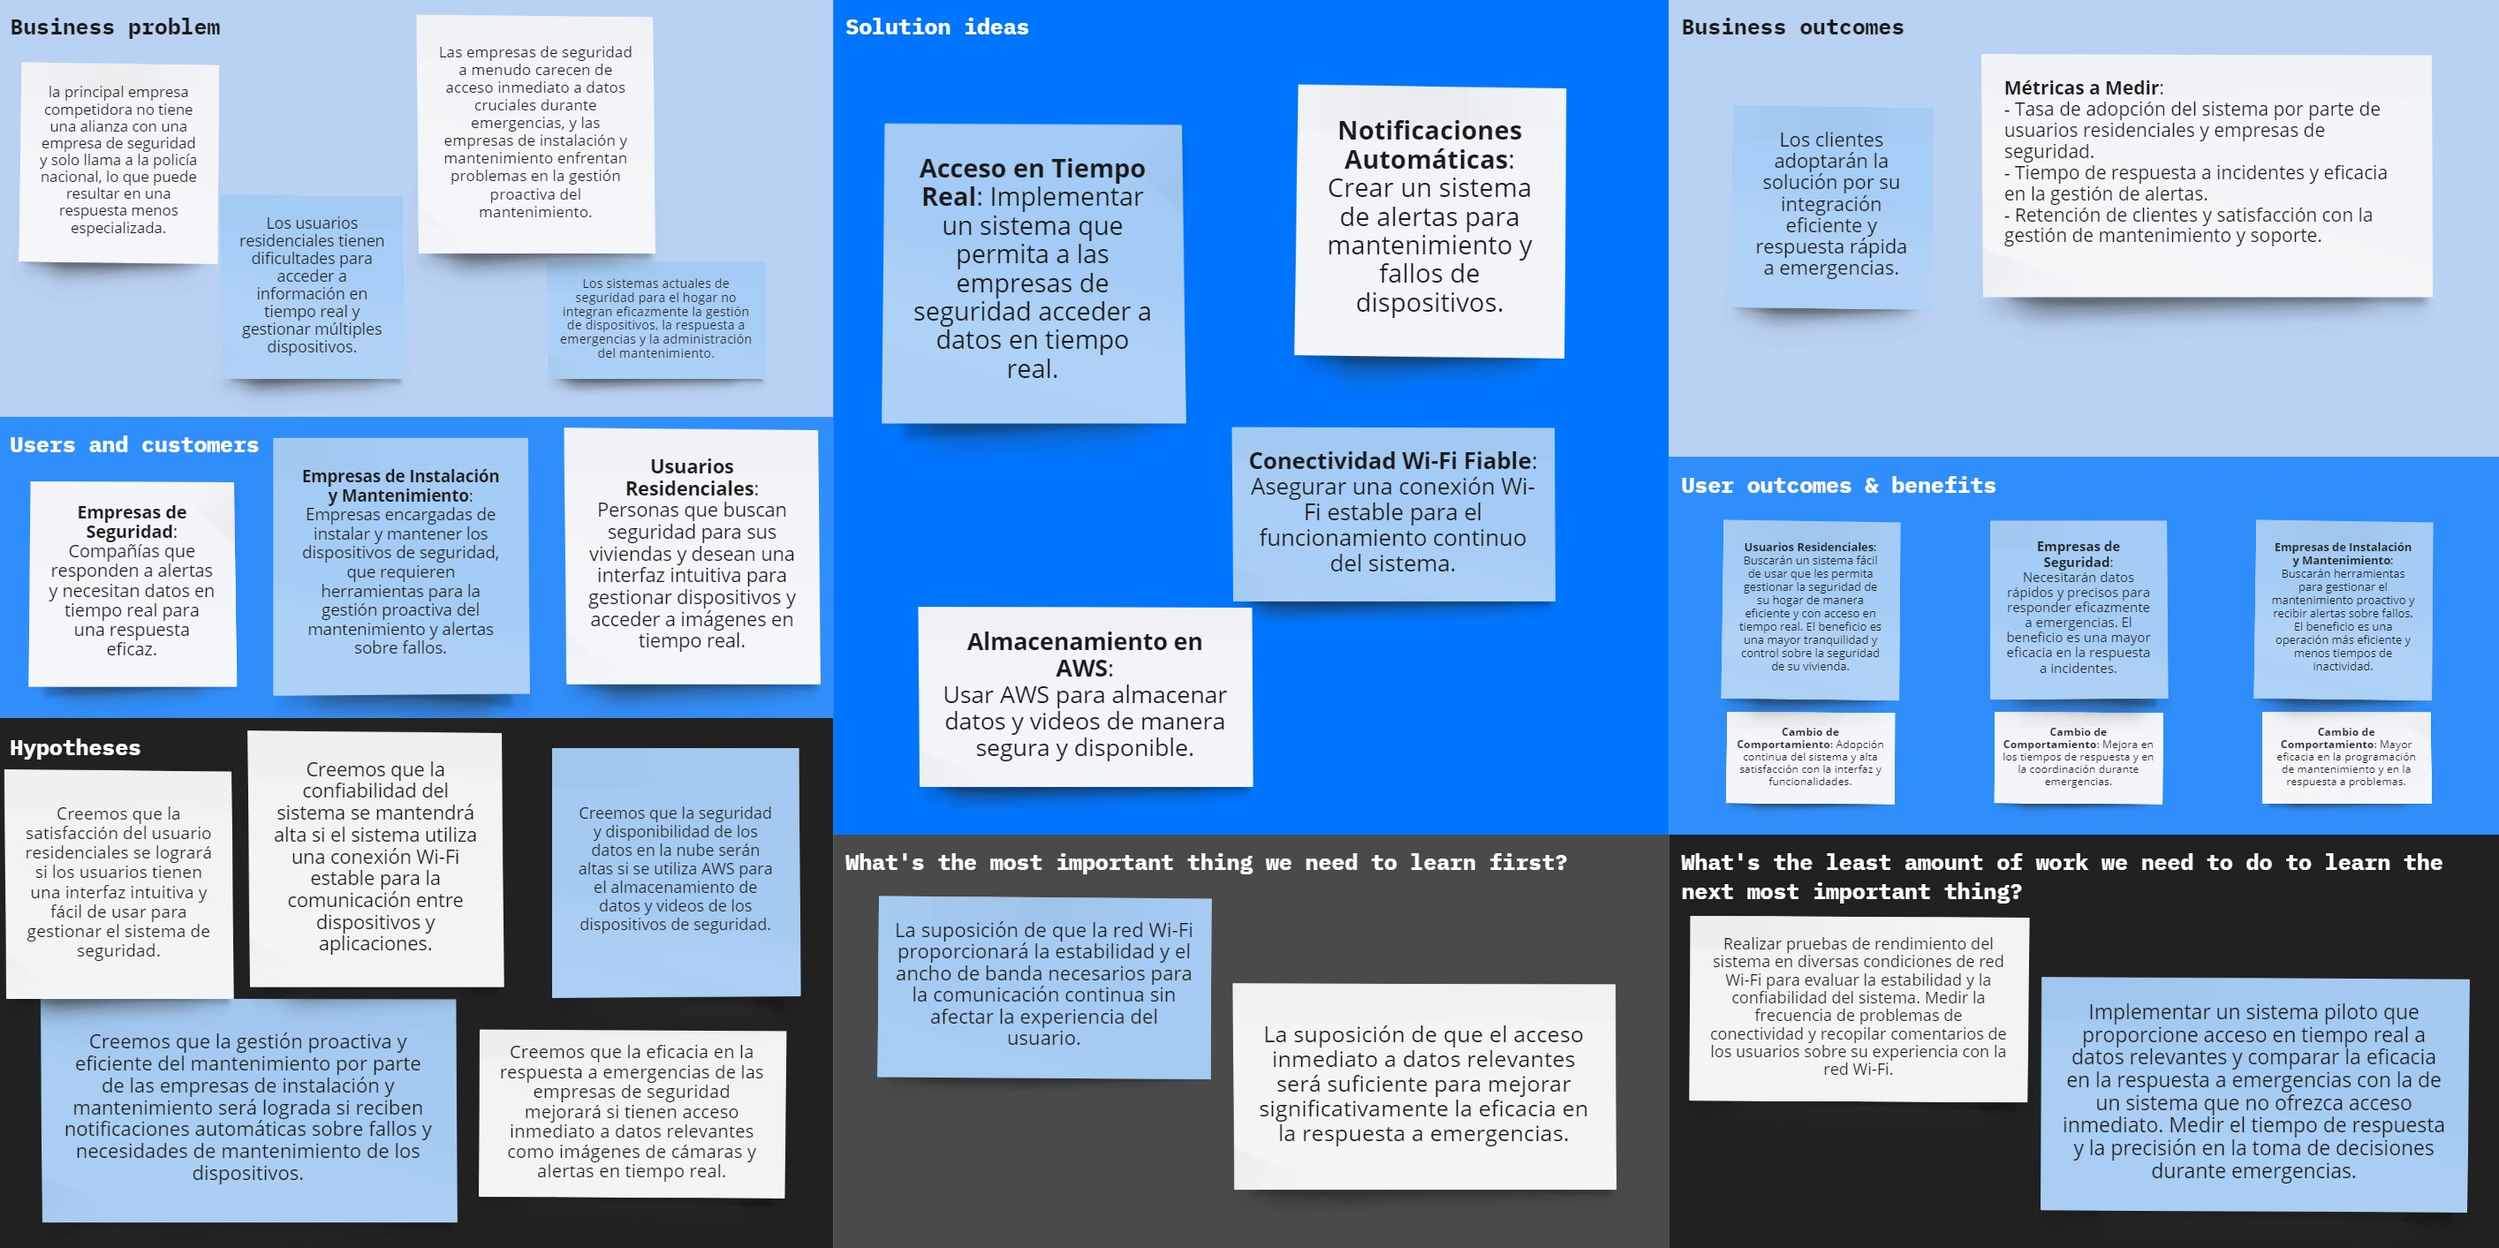
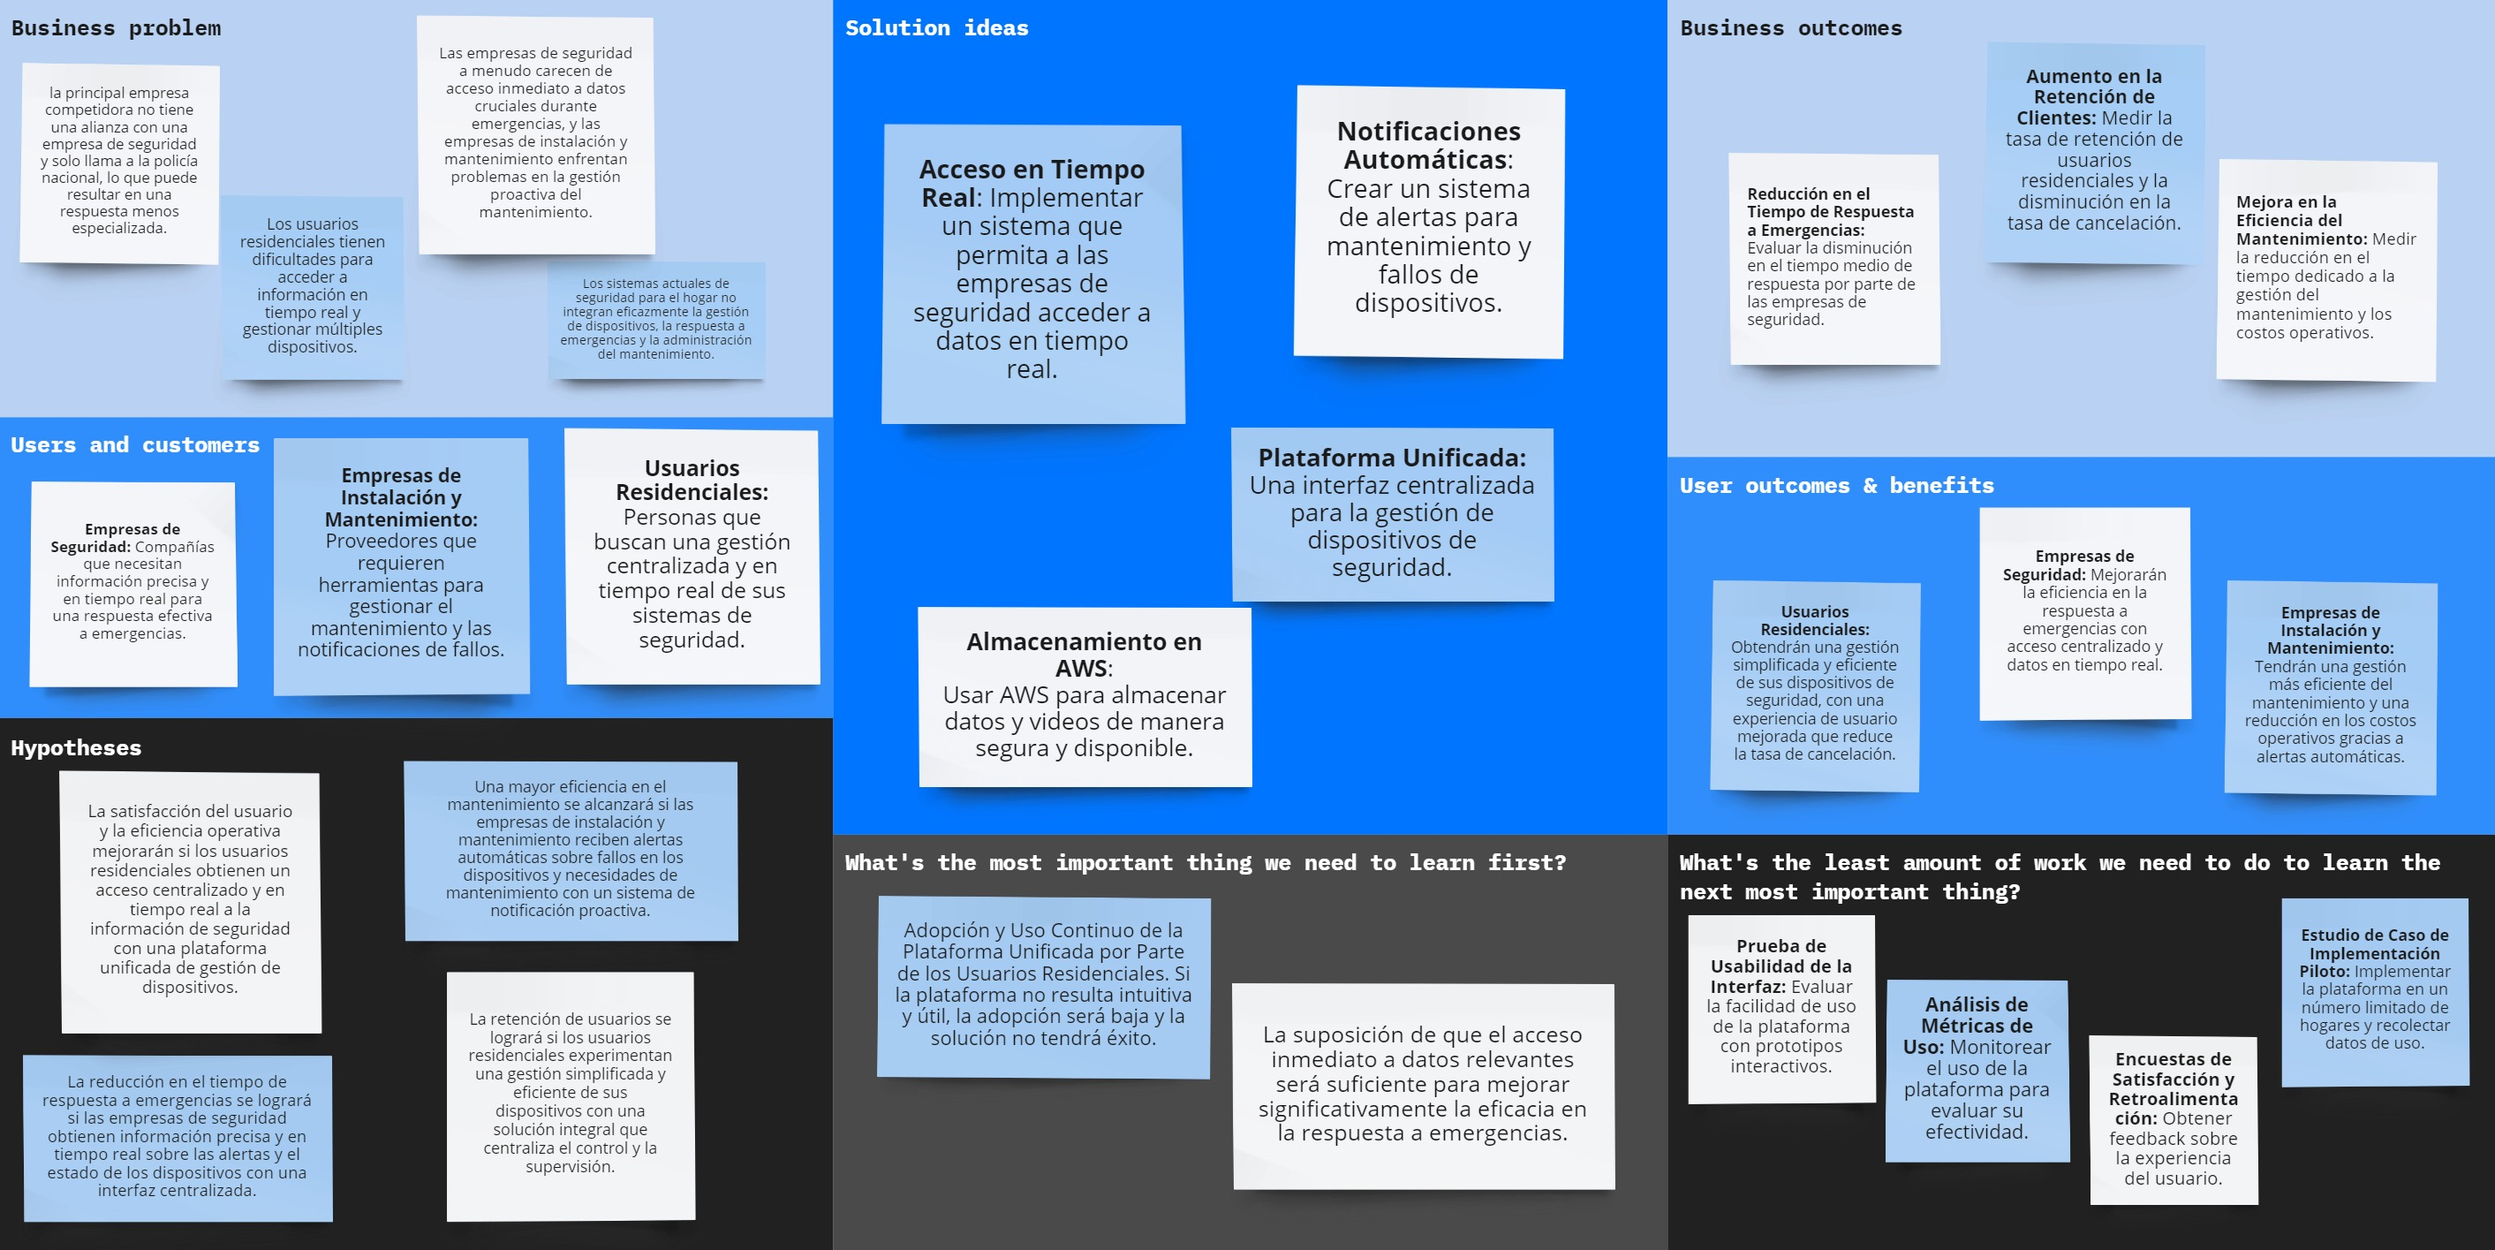
fix: lean ux process

diff --git a/report.md b/report.md
@@ -62,11 +62,11 @@ Nuestra visión es convertirnos en líderes en tecnología de seguridad, resolvi
 ### 1.1.2 Perfiles de integrantes del equipo
 | Integrante | Imagen |
 |----------------------|----------------------|
-| **Elvia Guadalupe Arteaga Cruz:** Soy una estudiante de la carrera de ingeniería de software. Ingresé a la universidad para estudiar ingeniería mecatrónica, pero el mundo de la programación siempre me gustó más, es por ello que decidí cambiarme de carrera. Me gusta mucho la tecnología y las grandes cosas que se pueden hacer con ella. Tengo la ilusión de crear productos y servicios que ayuden a facilitar la vida de las personas y que nos ayuden a crecer como sociedad.| ![ElviaArteaga](src/images/) |
-| **Max Dayson Sabino Arostegui:** Soy estudiante de Ingeniería de Software y me interesa especialmente el machine learning y la ciberseguridad. Tengo experiencia con la metodología ágil SCRUM y estoy familiarizado con varios frameworks y lenguajes de programación, como Angular, Vue, C++ y Python. Además, poseo habilidades blandas importantes como el trabajo en equipo, asertividad y cooperación.| ![MaxSabino](src/images/perfil2.png)|
-| **Gabriela Soledad Nomberto Ramos:** Soy estudiante de la carrera de Ingeniería de Software en el 9no ciclo. Tengo experiencia amplia en diversos lenguajes de programación, así como el uso de servidores cloud, soy muy organizada, responsable y sobre todo puntual. Además, soy bailarina de caporales en una agrupación externa a la universidad. Todo ello me enseñó a como trabajar en equipo, apoyar e investigar temas que me emocionan como lo es ciberseguridad y bases de datos, mis mejores habilidades es la comunicación en grupo y solucionar problemas bajo presión.|![GabrielaNomberto](src/images/) |
-| **Dennis Piero Quevedo Yucra:** Soy Dennis Piero Quevedo, estudiante de la carrera de Ingeniería de Software y estoy cursando el 9no ciclo. Tengo conocimientos en múltiples lenguajes de programación. Así mismo, me encuentro realizando mis prácticas pre-profesionales aplicando todos los conocimientos adquiridos a lo largo de la carrera. Me considero una persona responsable y sobre todo puntual. Por otro lado, soy ciclista aficionado, me gusta mucho aprender por cuenta propia y una de mis mejores habilidades es solucionar los problemas a la brevedad posible.| ![DennisQuevedo](src/images/)|
-| **Jamutaq Piero Ortega Vélez:** Soy estudiante de la carrera de Ingeniería de Software, tengo 22 años y me encuentro en el 7mo ciclo. Me considero una persona honrada, respetuosa y responsable, siempre me gusta aportar y ayudar a mi equipo de trabajo. Poseo una gran experiencia en el desarrollo de soluciones backend con tecnologías que como Spring Boot con Java, .NET Core con C# y Node.js con JS y TS. Además, también me apasiona el mundo del DevOps y tecnologías cloud. Me gusta mucho la música y la meditación, y en mis tiempos libres me dedico a caminar y a reflexionar sobre la vida.| ![JamutaqOrtega](src/images/foto-jamutaq.jpeg)|
+| **Elvia Guadalupe Arteaga Cruz:** <br>Código: u201616507<br> Soy una estudiante de la carrera de ingeniería de software. Ingresé a la universidad para estudiar ingeniería mecatrónica, pero el mundo de la programación siempre me gustó más, es por ello que decidí cambiarme de carrera. Me gusta mucho la tecnología y las grandes cosas que se pueden hacer con ella. Tengo la ilusión de crear productos y servicios que ayuden a facilitar la vida de las personas y que nos ayuden a crecer como sociedad.| ![ElviaArteaga](src/images/) |
+| **Max Dayson Sabino Arostegui:** <br>Código: u20201a991<br> Soy estudiante de Ingeniería de Software y me interesa especialmente el machine learning y la ciberseguridad. Tengo experiencia con la metodología ágil SCRUM y estoy familiarizado con varios frameworks y lenguajes de programación, como Angular, Vue, C++ y Python. Además, poseo habilidades blandas importantes como el trabajo en equipo, asertividad y cooperación.| ![MaxSabino](src/images/perfil2.png)|
+| **Gabriela Soledad Nomberto Ramos:** <br>Código: u202113876<br> Soy estudiante de la carrera de Ingeniería de Software en el 9no ciclo. Tengo experiencia amplia en diversos lenguajes de programación, así como el uso de servidores cloud, soy muy organizada, responsable y sobre todo puntual. Además, soy bailarina de caporales en una agrupación externa a la universidad. Todo ello me enseñó a como trabajar en equipo, apoyar e investigar temas que me emocionan como lo es ciberseguridad y bases de datos, mis mejores habilidades es la comunicación en grupo y solucionar problemas bajo presión.|![GabrielaNomberto](src/images/) |
+| **Dennis Piero Quevedo Yucra:** <br>Código: u201619823<br> Soy Dennis Piero Quevedo, estudiante de la carrera de Ingeniería de Software y estoy cursando el 9no ciclo. Tengo conocimientos en múltiples lenguajes de programación. Así mismo, me encuentro realizando mis prácticas pre-profesionales aplicando todos los conocimientos adquiridos a lo largo de la carrera. Me considero una persona responsable y sobre todo puntual. Por otro lado, soy ciclista aficionado, me gusta mucho aprender por cuenta propia y una de mis mejores habilidades es solucionar los problemas a la brevedad posible.| ![DennisQuevedo](src/images/)|
+| **Jamutaq Piero Ortega Vélez:** <br>Código: u201911703<br> Soy estudiante de la carrera de Ingeniería de Software, tengo 22 años y me encuentro en el 7mo ciclo. Me considero una persona honrada, respetuosa y responsable, siempre me gusta aportar y ayudar a mi equipo de trabajo. Poseo una gran experiencia en el desarrollo de soluciones backend con tecnologías que como Spring Boot con Java, .NET Core con C# y Node.js con JS y TS. Además, también me apasiona el mundo del DevOps y tecnologías cloud. Me gusta mucho la música y la meditación, y en mis tiempos libres me dedico a caminar y a reflexionar sobre la vida.| ![JamutaqOrtega](src/images/foto-jamutaq.jpeg)|
 
 
 ## 1.2 Solution Profile
@@ -75,8 +75,64 @@ Nuestra visión es convertirnos en líderes en tecnología de seguridad, resolvi
 
 ### 1.2.2 Lean UX Process
 #### 1.2.2.1 Lean UX Problem Statements
+El estado actual del dominio de la seguridad IoT para el hogar se ha centrado principalmente en los usuarios residenciales, las empresas de seguridad y las empresas de instalación y mantenimiento. Los puntos críticos incluyen la falta de un acceso centralizado a la información de los dispositivos, problemas de coordinación en emergencias y dificultades en la gestión del mantenimiento.
+
+Lo que los productos/servicios existentes no logran abordar es la necesidad de integrar la gestión de dispositivos, la respuesta en tiempo real ante emergencias y la administración del mantenimiento en una plataforma unificada. Además, los competidores no ofrecen alianzas con empresas de seguridad, lo que resulta en respuestas menos especializadas.
+
+Nuestro producto/servicio abordará esta brecha mediante el desarrollo de una plataforma IoT unificada que conecte dispositivos de seguridad, mejore la coordinación con empresas de seguridad aliadas y optimice la gestión del mantenimiento en tiempo real.
+
+Nuestro enfoque inicial será los usuarios residenciales, ya que necesitan una experiencia de usuario simplificada que permita un control centralizado de sus dispositivos y una respuesta más rápida ante emergencias.
+
+Sabremos que tenemos éxito cuando veamos un aumento en la satisfacción del cliente, una mayor utilización diaria de la plataforma, una reducción en el tiempo de respuesta de emergencias y una mejora en la coordinación con empresas de seguridad y mantenimiento.
 #### 1.2.2.2 Lean UX Assumptions
+1. User Assumptions
+- Los usuarios residenciales prefieren una única plataforma centralizada para gestionar todos sus dispositivos de seguridad en lugar de utilizar múltiples aplicaciones.
+- Los usuarios valoran la capacidad de recibir notificaciones en tiempo real sobre el estado de sus dispositivos y eventos de seguridad.
+- Los usuarios se sienten más seguros al saber que existe una alianza con una empresa de seguridad para responder rápidamente a emergencias.
+- Los usuarios tienen conocimientos básicos de tecnología IoT y son capaces de interactuar con interfaces sencillas.
+
+2. Business Assumptions
+- Las empresas de seguridad están interesadas en formar alianzas para integrar sus servicios con plataformas de seguridad IoT, ya que esto mejora su capacidad de respuesta.
+- Las empresas de instalación y mantenimiento ven un valor en poder gestionar el estado de los dispositivos y coordinar las tareas de mantenimiento a través de una única plataforma.
+- La implementación de una solución de seguridad IoT que optimice la gestión de dispositivos y emergencias atraerá tanto a nuevos clientes residenciales como a empresas de seguridad y mantenimiento.
+
+3. User Outcomes Assumptions
+- Los usuarios residenciales utilizarán la plataforma de forma recurrente para monitorear su hogar y gestionar sus dispositivos de seguridad.
+- Los usuarios se sentirán más satisfechos y seguros al poder recibir asistencia inmediata en caso de emergencia, reduciendo la ansiedad relacionada con la seguridad del hogar.
+- Los usuarios adoptarán la plataforma y recomendarán el servicio a otros propietarios de viviendas una vez que experimenten su efectividad.
+
+4. Business Outcomes Assumptions
+- Las empresas de seguridad mejorarán sus tiempos de respuesta en emergencias gracias a la integración en tiempo real con la plataforma.
+- La plataforma permitirá a las empresas de instalación y mantenimiento reducir los costos operativos al automatizar el monitoreo y la notificación de fallos o necesidades de mantenimiento.
+- El éxito de la plataforma en el segmento residencial facilitará la expansión hacia otros mercados, como empresas comerciales y oficinas.
+
+5. Features Assumptions
+- Una interfaz intuitiva y centralizada para el control de todos los dispositivos IoT será clave para que los usuarios residenciales adopten la plataforma.
+- La integración en tiempo real con empresas de seguridad, permitiendo la comunicación inmediata y el envío de datos críticos durante una emergencia, será una característica fundamental para diferenciarse de la competencia.
+- La plataforma necesitará incluir funcionalidades de mantenimiento automatizado, como notificaciones de fallos en los dispositivos, para atraer a las empresas de instalación y mantenimiento.
 
 #### 1.2.2.3 Lean UX Hypothesis Statements
+Creemos que lograremos una mejora significativa en la satisfacción y retención de los usuarios para nuestra plataforma IoT de seguridad. Si los usuarios residenciales tienen acceso a una plataforma centralizada que integra monitoreo en tiempo real, coordinación de respuesta a emergencias y gestión del mantenimiento, alcanzarán una experiencia de usuario fluida y una mayor sensación de seguridad, con notificaciones oportunas, gestión simplificada de dispositivos y respuestas eficaces a emergencias. Con una interfaz unificada que conecta todos los dispositivos de seguridad, alertas en tiempo real y la integración con empresas de seguridad para una respuesta rápida ante emergencias.
+
+Creemos que lograremos un mayor nivel de eficiencia operativa para las empresas de seguridad. Si estas empresas pueden acceder a datos y alertas en tiempo real desde la plataforma IoT integrada, alcanzarán tiempos de respuesta más rápidos ante emergencias y una mejor coordinación con los usuarios residenciales. Con la integración de datos en tiempo real y alertas que facilitan la toma de decisiones informadas durante los incidentes.
+
+Creemos que lograremos una reducción de los costos operativos para las empresas de instalación y mantenimiento. Si estas empresas pueden utilizar una sola plataforma para gestionar el estado de los dispositivos y las tareas de mantenimiento, alcanzarán una programación de mantenimiento más eficiente y menos fallos inesperados. Con notificaciones automatizadas sobre problemas en los dispositivos y un panel centralizado para el seguimiento de las actividades de mantenimiento.
+
+Creemos que lograremos una mayor adopción de nuestra plataforma IoT de seguridad entre los usuarios residenciales. Si ofrecemos una solución que simplifica la gestión de dispositivos y mejora las capacidades de respuesta ante emergencias, alcanzarán una mayor tasa de compromiso con el uso de la plataforma y recomendaciones positivas a otros usuarios. Con una interfaz fácil de usar que integra todas las funciones de seguridad y proporciona una coordinación efectiva en emergencias.
+
+Creemos que lograremos una integración más eficiente entre las empresas de seguridad y la plataforma IoT. Si las empresas de seguridad pueden recibir información detallada y en tiempo real sobre las alertas y el estado de los dispositivos, alcanzarán una coordinación más fluida y respuestas más especializadas durante las emergencias. Con una plataforma que facilita el acceso a datos críticos y la comunicación inmediata con los usuarios residenciales.
+
+Creemos que lograremos una mejora en la gestión del mantenimiento para los dispositivos de seguridad. Si los usuarios y las empresas de mantenimiento tienen acceso a herramientas que permiten un seguimiento proactivo del estado de los dispositivos, alcanzarán una reducción en los tiempos de inactividad y un aumento en la durabilidad de los dispositivos. Con funcionalidades de monitoreo continuo y alertas automáticas sobre necesidades de mantenimiento o fallos.
+
+Creemos que lograremos una mayor confianza en la plataforma por parte de los usuarios. Si implementamos medidas de seguridad robustas y proporcionamos soporte técnico eficiente, alcanzarán una mayor confianza en la protección de sus datos y en la efectividad del sistema de seguridad. Con protocolos de seguridad avanzados y un soporte técnico accesible y confiable.
 
 #### 1.2.2.4 Lean UX Canvas
+En el desarrollo de soluciones innovadoras para el mercado de seguridad IoT para el hogar, es crucial entender y validar los problemas y necesidades tanto desde la perspectiva del negocio como de los usuarios finales. El Lean UX Canvas es una herramienta esencial que nos permite estructurar y visualizar los elementos clave de nuestro proyecto, facilitando la identificación de problemas, la definición de resultados esperados y la planificación de experimentos para validar nuestras suposiciones.
+
+Este canvas se centra en resolver el problema principal relacionado con la falta de integración eficaz en los sistemas de seguridad actuales. A través de un enfoque iterativo y basado en evidencia, nuestro objetivo es desarrollar una solución que mejore la experiencia de gestión de seguridad para los usuarios residenciales, optimice la respuesta a emergencias para las empresas de seguridad, y facilite el mantenimiento para los proveedores de instalación y mantenimiento.
+
+El Lean UX Canvas que a continuación se presenta detalla los problemas de negocio, los resultados esperados, los tipos de usuarios a enfocar, los beneficios para los usuarios, las soluciones propuestas, las hipótesis a validar, los riesgos críticos y los experimentos necesarios para aprender rápidamente y ajustar nuestra estrategia en función de los hallazgos. Esta estructura nos guiará en la creación de una solución eficaz y centrada en el usuario, maximizando nuestras oportunidades de éxito en el mercado.
+
+![LeanUxCanvas](src/images/lean-ux-canvas.jpg)
+
+## 1.3 Segmentos Objetivo
